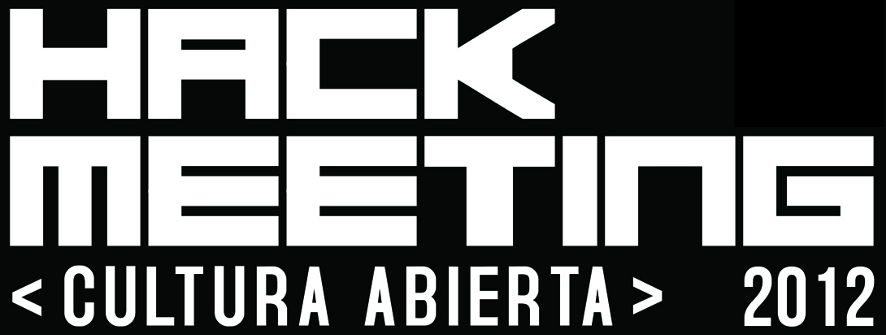
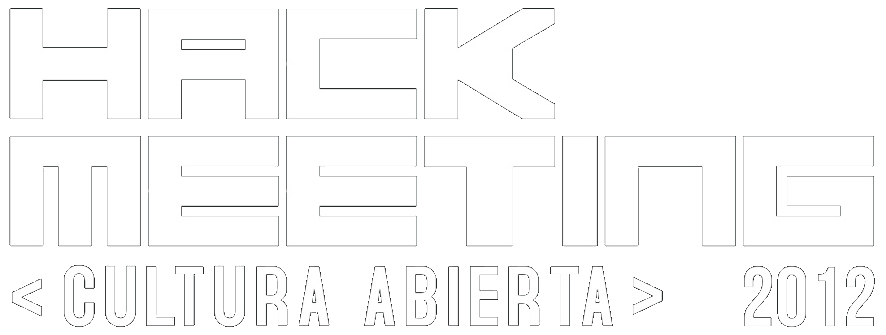
modificaciones sobre el evento hackmeeting

diff --git a/public/css/hackmeeting.css b/public/css/hackmeeting.css
@@ -49,7 +49,6 @@ p {
 }
 
 #header {
-    background-color: #000000;
     background-image: url('/templates/hackmeeting/header_2.0.png');
     background-repeat: no-repeat;
     background-position: 0% 100%;
@@ -72,6 +71,17 @@ p {
     width: 50px;
 }
 
+#binary {
+    position: absolute;
+    top: 0px;
+    left: 0px;
+    bottom: 0px;
+    right: 0px;
+    color: #4fff4f;
+    opacity: 0.20;
+    z-index: -100;
+}
+
 /*-------------------------------------------*/
 /*             BARRA DE USUARIO              */
 /*-------------------------------------------*/
@@ -84,6 +94,7 @@ p {
 .auth a {
     font-size: 0.94em;
     color: #ffffff;
+    background-color: #000000;
 }
 
 /*-------------------------------------------*/

diff --git a/library/Application/Views/Helpers/Tile.php b/library/Application/Views/Helpers/Tile.php
@@ -1,0 +1,21 @@
+<?php
+
+class Application_Views_Helpers_Tile
+{
+    public function tile() {
+        $size = pow(2, 14);
+        $space = 4;
+
+        $values = '+-*/';
+        $length = strlen($values);
+        $code = '';
+        for ($i = 0; $i < $size; $i++) {
+            if ($i % $space == 0) {
+                $code .= ' ';
+            }
+            $code .= $values[rand(0, $length - 1)];
+        }
+        return $code;
+    }
+
+}

diff --git a/layouts/scripts/hackmeeting.php b/layouts/scripts/hackmeeting.php
@@ -24,5 +24,6 @@
             </div>
             <div id="footer">&nbsp;</div>
         </div>
+        <div id="binary"><?php echo $this->tile() ?></div>
     </body>
 </html>
